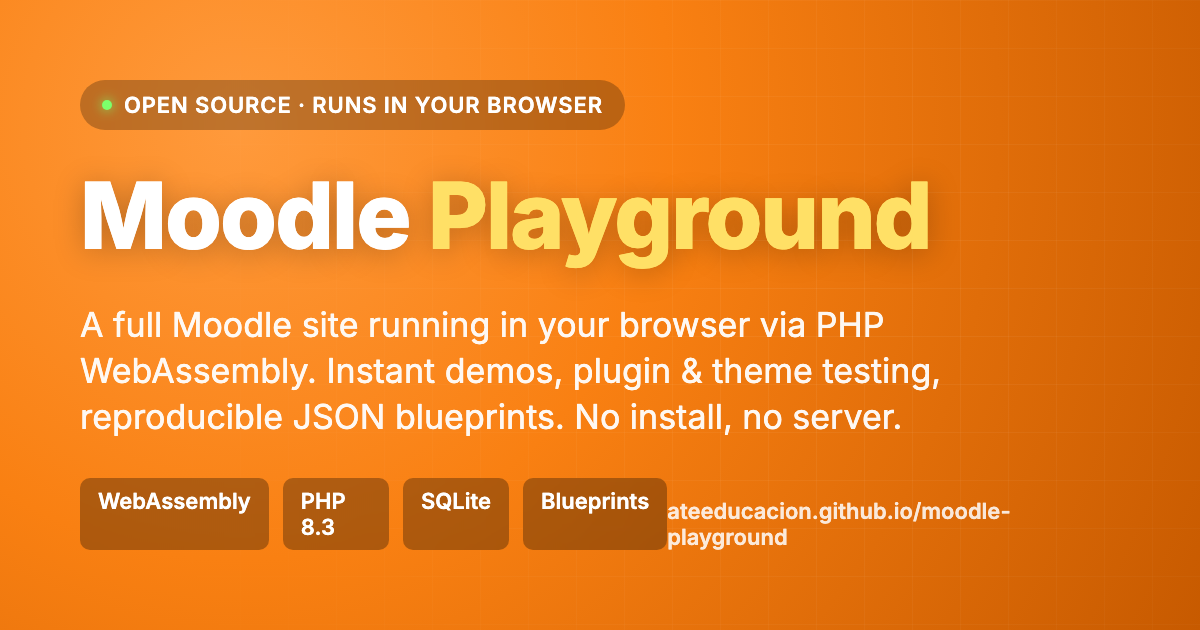
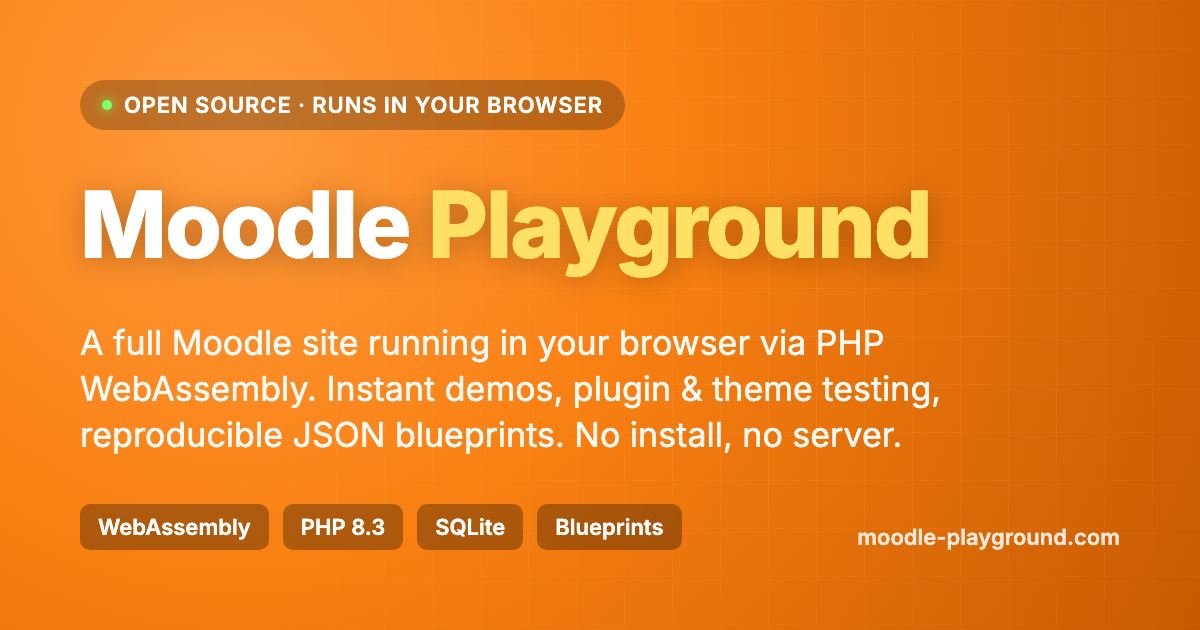
feat(shell): point canonical URL to moodle-playground.com
Adds CNAME so GitHub Pages serves the site at moodle-playground.com and
swaps all SEO/OG/JSON-LD references (plus the OG card footer) to the
custom domain.

diff --git a/index.html b/index.html
@@ -15,19 +15,19 @@
     <meta name="author" content="Área de Tecnología Educativa (ATE)">
     <meta name="robots" content="index, follow">
     <meta name="theme-color" content="#f98012">
-    <link rel="canonical" href="https://ateeducacion.github.io/moodle-playground/">
+    <link rel="canonical" href="https://moodle-playground.com/">
 
     <!-- Open Graph / Facebook / LinkedIn -->
     <meta property="og:type" content="website">
     <meta property="og:site_name" content="Moodle Playground">
     <meta property="og:locale" content="en_US">
-    <meta property="og:url" content="https://ateeducacion.github.io/moodle-playground/">
+    <meta property="og:url" content="https://moodle-playground.com/">
     <meta property="og:title" content="Moodle Playground — Try Moodle in your browser, no server required">
     <meta
       property="og:description"
       content="A full Moodle site running in your browser via PHP WebAssembly. Instant demos, plugin and theme testing, reproducible course setups with JSON blueprints. No install, no server, no sign-up."
     >
-    <meta property="og:image" content="https://ateeducacion.github.io/moodle-playground/og-image.png">
+    <meta property="og:image" content="https://moodle-playground.com/og-image.png">
     <meta property="og:image:alt" content="Moodle Playground — Moodle running in your browser">
     <meta property="og:image:width" content="1200">
     <meta property="og:image:height" content="630">
@@ -39,7 +39,7 @@
       name="twitter:description"
       content="A full Moodle site running in your browser via PHP WebAssembly. Instant demos, plugin and theme testing, reproducible setups with JSON blueprints. No install required."
     >
-    <meta name="twitter:image" content="https://ateeducacion.github.io/moodle-playground/og-image.png">
+    <meta name="twitter:image" content="https://moodle-playground.com/og-image.png">
     <meta name="twitter:image:alt" content="Moodle Playground — Moodle running in your browser">
 
     <link rel="icon" type="image/x-icon" href="favicon.ico">
@@ -52,7 +52,7 @@
       "@context": "https://schema.org",
       "@type": "SoftwareApplication",
       "name": "Moodle Playground",
-      "url": "https://ateeducacion.github.io/moodle-playground/",
+      "url": "https://moodle-playground.com/",
       "description": "Moodle Playground runs a full Moodle site entirely in your browser using PHP WebAssembly. Spin up instant Moodle demos, test plugins and themes, and prototype courses with reproducible JSON blueprints — no install, no server.",
       "applicationCategory": "EducationalApplication",
       "applicationSubCategory": "Learning Management System",
